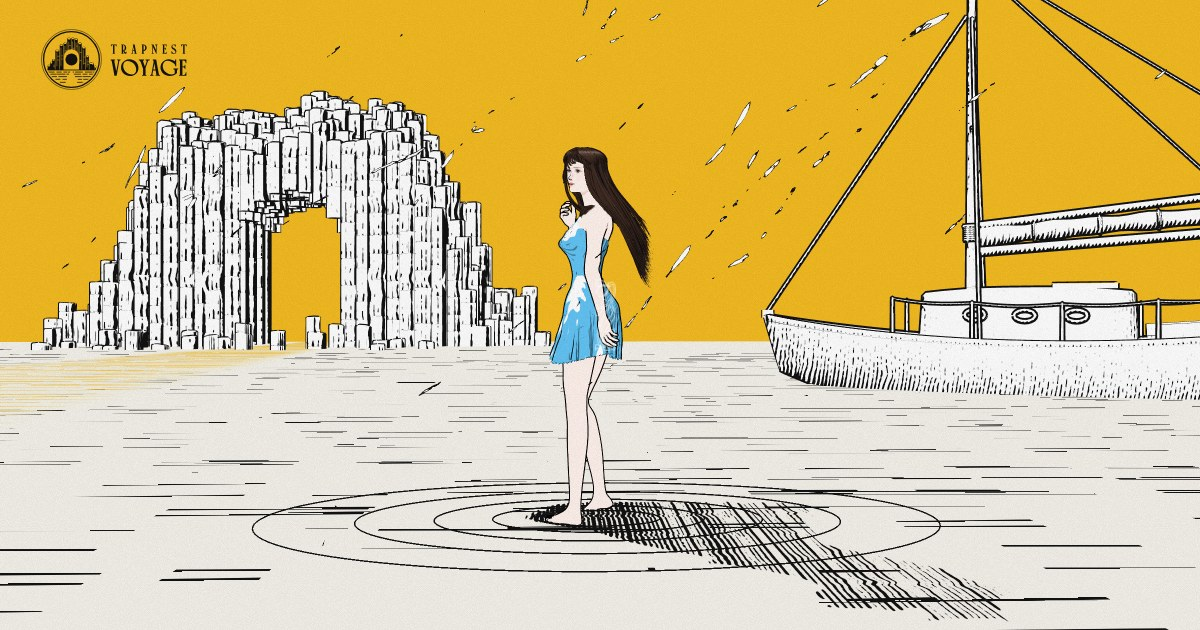
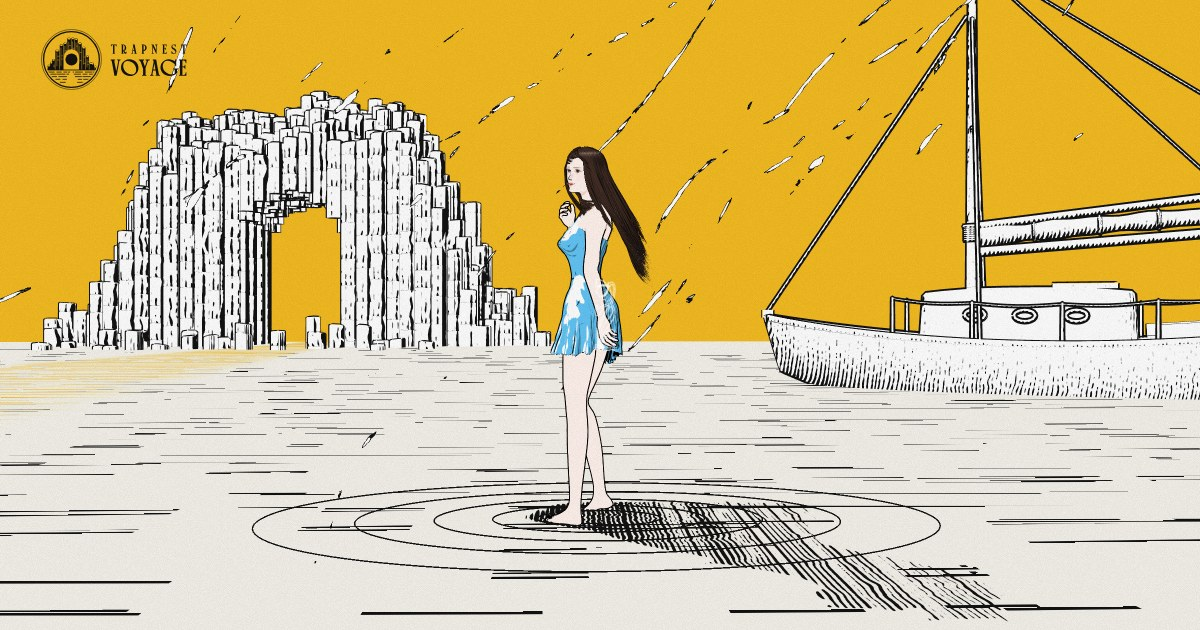
Recapture the social card with her rounder head
Claude-Session: https://claude.ai/code/session_01J3JtGRBSyLE9ov9Zqsa5uL

diff --git a/index.html b/index.html
@@ -26,7 +26,7 @@
     <meta property="og:url" content="https://voyage.henrywithu.com/" />
     <meta
       property="og:image"
-      content="https://voyage.henrywithu.com/assets/social/trapnest-voyage-og.jpg?v=2"
+      content="https://voyage.henrywithu.com/assets/social/trapnest-voyage-og.jpg?v=3"
     />
     <meta property="og:image:type" content="image/jpeg" />
     <meta property="og:image:width" content="1200" />
@@ -47,7 +47,7 @@
     />
     <meta
       name="twitter:image"
-      content="https://voyage.henrywithu.com/assets/social/trapnest-voyage-og.jpg?v=2"
+      content="https://voyage.henrywithu.com/assets/social/trapnest-voyage-og.jpg?v=3"
     />
     <meta
       name="twitter:image:alt"
@@ -68,7 +68,7 @@
         "@type": "WebSite",
         "name": "Trapnest Voyage",
         "url": "https://voyage.henrywithu.com/",
-        "image": "https://voyage.henrywithu.com/assets/social/trapnest-voyage-og.jpg?v=2",
+        "image": "https://voyage.henrywithu.com/assets/social/trapnest-voyage-og.jpg?v=3",
         "isPartOf": {
           "@type": "WebSite",
           "name": "Trapnest",
